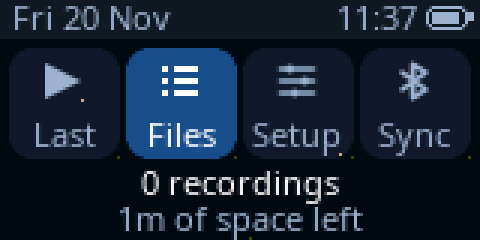
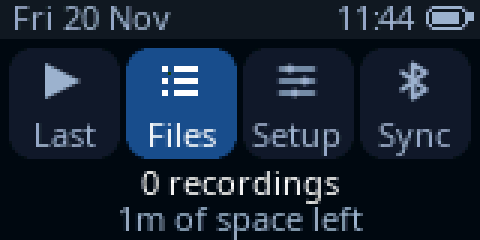
open_fw: add 25KiB off-screen RGB565 framebuffer for zero-flicker atomic UI flushes

Changed region(s): [[0.7812, 0.0, 0.875, 0.1458], [0.5, 0.9917, 0.5312, 1.0]]

diff --git a/open_fw/src/lcd_st7735s.c b/open_fw/src/lcd_st7735s.c
@@ -13,6 +13,42 @@ static uint16_t g_lcd_w     = LCD_WIDTH;
 static uint16_t g_lcd_h     = LCD_HEIGHT;
 static uint16_t g_lcd_x_off = 26u;
 static uint16_t g_lcd_y_off = 0u;
+static uint16_t g_lcd_fb[160u * 80u];
+static int      g_lcd_fb_active = 0;
+
+void lcd_fb_begin(void)
+{
+    g_lcd_fb_active = 1;
+}
+
+void lcd_fb_flush(void)
+{
+    if (!g_lcd_fb_active) {
+        return;
+    }
+    g_lcd_fb_active = 0;
+    lcd_blit_rgb565(0u, 0u, g_lcd_w, g_lcd_h, g_lcd_fb);
+}
+
+static inline void fb_put_px(int16_t x, int16_t y, uint16_t col)
+{
+    if (x >= 0 && y >= 0 && x < (int16_t)g_lcd_w && y < (int16_t)g_lcd_h) {
+        g_lcd_fb[(uint32_t)y * (uint32_t)g_lcd_w + (uint32_t)x] = col;
+    }
+}
+
+static inline void fb_blend_px(int16_t x, int16_t y, uint16_t fg, uint8_t a4)
+{
+    if (a4 == 0u || x < 0 || y < 0 || x >= (int16_t)g_lcd_w || y >= (int16_t)g_lcd_h) {
+        return;
+    }
+    uint32_t idx = (uint32_t)y * (uint32_t)g_lcd_w + (uint32_t)x;
+    if (a4 >= 15u) {
+        g_lcd_fb[idx] = fg;
+    } else {
+        g_lcd_fb[idx] = lcd_blend_rgb565(fg, g_lcd_fb[idx], a4);
+    }
+}
 
 static inline void lcdc_wait_idle(void)
 {
@@ -248,6 +284,16 @@ void lcd_fill_rect(uint16_t x, uint16_t y, uint16_t w, uint16_t h, uint16_t colo
     if (x1 >= g_lcd_w) x1 = (uint16_t)(g_lcd_w - 1u);
     if (y1 >= g_lcd_h) y1 = (uint16_t)(g_lcd_h - 1u);
 
+    if (g_lcd_fb_active) {
+        for (uint16_t py = y; py <= y1; py++) {
+            uint16_t *row = &g_lcd_fb[(uint32_t)py * (uint32_t)g_lcd_w];
+            for (uint16_t px = x; px <= x1; px++) {
+                row[px] = color;
+            }
+        }
+        return;
+    }
+
     lcd_set_window(x, y, x1, y1);
     uint32_t total = (uint32_t)(x1 - x + 1u) * (uint32_t)(y1 - y + 1u);
     uint32_t pair  = pack_be16_pair(color, color);
@@ -263,6 +309,18 @@ void lcd_fill_rect(uint16_t x, uint16_t y, uint16_t w, uint16_t h, uint16_t colo
 void lcd_blit_rgb565(uint16_t x, uint16_t y, uint16_t w, uint16_t h, const uint16_t *pixels)
 {
     if (w == 0u || h == 0u || !pixels) {
+        return;
+    }
+    if (g_lcd_fb_active) {
+        for (uint16_t row = 0u; row < h; row++) {
+            int16_t py = (int16_t)(y + row);
+            if (py >= (int16_t)g_lcd_h) break;
+            for (uint16_t col = 0u; col < w; col++) {
+                int16_t px = (int16_t)(x + col);
+                if (px >= (int16_t)g_lcd_w) break;
+                g_lcd_fb[(uint32_t)py * (uint32_t)g_lcd_w + (uint32_t)px] = pixels[(uint32_t)row * (uint32_t)w + col];
+            }
+        }
         return;
     }
     lcd_set_window(x, y, (uint16_t)(x + w - 1u), (uint16_t)(y + h - 1u));
@@ -614,9 +672,22 @@ static void lcd_draw_glyph_aa(int16_t x, int16_t y, const aa_font_t *font,
     int16_t cx1 = (gx1 >= (int16_t)g_lcd_w) ? (int16_t)(g_lcd_w - 1) : gx1;
     int16_t cy1 = (gy1 >= (int16_t)g_lcd_h) ? (int16_t)(g_lcd_h - 1) : gy1;
 
+    const uint8_t *src = &font->bitmap_data[g->data_off];
+    if (g_lcd_fb_active) {
+        for (int16_t py = cy0; py <= cy1; py++) {
+            uint32_t row_off = (uint32_t)(py - gy0) * (uint32_t)g->w;
+            for (int16_t px = cx0; px <= cx1; px++) {
+                uint32_t idx = row_off + (uint32_t)(px - gx0);
+                uint8_t byte = src[idx >> 1];
+                uint8_t a4   = ((idx & 1u) == 0u) ? (uint8_t)(byte >> 4) : (uint8_t)(byte & 0x0Fu);
+                fb_blend_px(px, py, fg, a4);
+            }
+        }
+        return;
+    }
+
     lcd_set_window((uint16_t)cx0, (uint16_t)cy0, (uint16_t)cx1, (uint16_t)cy1);
 
-    const uint8_t *src = &font->bitmap_data[g->data_off];
     uint32_t have_p0 = 0u;
     uint16_t p0 = 0u;
 
@@ -722,9 +793,28 @@ void lcd_fill_circle_aa(int16_t cx, int16_t cy, int16_t r, uint16_t fg, uint16_t
     if (x1 >= (int16_t)g_lcd_w) x1 = (int16_t)(g_lcd_w - 1);
     if (y1 >= (int16_t)g_lcd_h) y1 = (int16_t)(g_lcd_h - 1);
 
+    int32_t  r2_64   = (int32_t)r * (int32_t)r * 64;
+    if (g_lcd_fb_active) {
+        for (int16_t py = y0; py <= y1; py++) {
+            for (int16_t px = x0; px <= x1; px++) {
+                uint32_t hits = 0u;
+                for (int32_t sy = 0; sy < 4; sy++) {
+                    int32_t dy = ((int32_t)(py - cy) * 8) + (sy * 2) - 3;
+                    for (int32_t sx = 0; sx < 4; sx++) {
+                        int32_t dx = ((int32_t)(px - cx) * 8) + (sx * 2) - 3;
+                        if ((dx * dx + dy * dy) <= r2_64) {
+                            hits++;
+                        }
+                    }
+                }
+                fb_blend_px(px, py, fg, (uint8_t)((hits * 15u + 8u) / 16u));
+            }
+        }
+        return;
+    }
+
     lcd_set_window((uint16_t)x0, (uint16_t)y0, (uint16_t)x1, (uint16_t)y1);
 
-    int32_t  r2_64   = (int32_t)r * (int32_t)r * 64;
     uint32_t have_p0 = 0u;
     uint16_t p0      = 0u;
 
@@ -784,14 +874,39 @@ void lcd_fill_rrect_aa(int16_t x, int16_t y, int16_t w, int16_t h, int16_t r,
     int16_t cx1 = (x1 >= (int16_t)g_lcd_w) ? (int16_t)(g_lcd_w - 1) : x1;
     int16_t cy1 = (y1 >= (int16_t)g_lcd_h) ? (int16_t)(g_lcd_h - 1) : y1;
 
-    /* Fast interior solid fill + 4x4 AA corners */
-    lcd_set_window((uint16_t)cx0, (uint16_t)cy0, (uint16_t)cx1, (uint16_t)cy1);
-
     int32_t  r2_64   = (int32_t)r * (int32_t)r * 64;
     int32_t  lx      = (int32_t)(x0 + r);
     int32_t  rx      = (int32_t)(x1 - r);
     int32_t  ty      = (int32_t)(y0 + r);
     int32_t  by      = (int32_t)(y1 - r);
+    if (g_lcd_fb_active) {
+        for (int16_t py = cy0; py <= cy1; py++) {
+            int32_t c_y = (py < ty) ? ty : ((py > by) ? by : (int32_t)py);
+            for (int16_t px = cx0; px <= cx1; px++) {
+                if ((px >= lx && px <= rx) || (py >= ty && py <= by)) {
+                    fb_put_px(px, py, fg);
+                } else {
+                    int32_t c_x = (px < lx) ? lx : rx;
+                    uint32_t hits = 0u;
+                    for (int32_t sy = 0; sy < 4; sy++) {
+                        int32_t dy = ((int32_t)py - c_y) * 8 + (sy * 2) - 3;
+                        for (int32_t sx = 0; sx < 4; sx++) {
+                            int32_t dx = ((int32_t)px - c_x) * 8 + (sx * 2) - 3;
+                            if ((dx * dx + dy * dy) <= r2_64) {
+                                hits++;
+                            }
+                        }
+                    }
+                    fb_blend_px(px, py, fg, (uint8_t)((hits * 15u + 8u) / 16u));
+                }
+            }
+        }
+        return;
+    }
+
+    /* Fast interior solid fill + 4x4 AA corners */
+    lcd_set_window((uint16_t)cx0, (uint16_t)cy0, (uint16_t)cx1, (uint16_t)cy1);
+
     uint32_t have_p0 = 0u;
     uint16_t p0      = 0u;
 
@@ -872,6 +987,27 @@ void lcd_fill_tri_aa(int16_t x0, int16_t y0, int16_t x1, int16_t y1,
         int32_t ty = by; by = cy; cy = ty;
     }
 
+    if (g_lcd_fb_active) {
+        for (int16_t py = min_y; py <= max_y; py++) {
+            for (int16_t px = min_x; px <= max_x; px++) {
+                uint32_t hits = 0u;
+                for (int32_t sy = 0; sy < 4; sy++) {
+                    int32_t qy = (int32_t)py * 8 + sy * 2 + 1;
+                    for (int32_t sx = 0; sx < 4; sx++) {
+                        int32_t qx = (int32_t)px * 8 + sx * 2 + 1;
+                        if (tri_edge(ax, ay, bx, by, qx, qy) >= 0 &&
+                            tri_edge(bx, by, cx, cy, qx, qy) >= 0 &&
+                            tri_edge(cx, cy, ax, ay, qx, qy) >= 0) {
+                            hits++;
+                        }
+                    }
+                }
+                fb_blend_px(px, py, fg, (uint8_t)((hits * 15u + 8u) / 16u));
+            }
+        }
+        return;
+    }
+
     lcd_set_window((uint16_t)min_x, (uint16_t)min_y, (uint16_t)max_x, (uint16_t)max_y);
     uint32_t have_p0 = 0u;
     uint16_t p0      = 0u;
@@ -936,6 +1072,44 @@ void lcd_draw_line_aa(int16_t x0, int16_t y0, int16_t x1, int16_t y1,
     int32_t vlen2 = vx * vx + vy * vy;
     int32_t rad = (int32_t)width_px * 4; /* half-width in 1/8-pixel units */
     int32_t rad2 = rad * rad;
+
+    if (g_lcd_fb_active) {
+        for (int16_t py = min_y; py <= max_y; py++) {
+            for (int16_t px = min_x; px <= max_x; px++) {
+                uint32_t hits = 0u;
+                for (int32_t sy = 0; sy < 4; sy++) {
+                    int32_t qy = (int32_t)py * 8 + sy * 2 + 1;
+                    for (int32_t sx = 0; sx < 4; sx++) {
+                        int32_t qx = (int32_t)px * 8 + sx * 2 + 1;
+                        int32_t wx = qx - ax;
+                        int32_t wy = qy - ay;
+                        int32_t dx, dy;
+                        if (vlen2 == 0) {
+                            dx = wx; dy = wy;
+                        } else {
+                            int32_t dot = wx * vx + wy * vy;
+                            if (dot <= 0) {
+                                dx = wx; dy = wy;
+                            } else if (dot >= vlen2) {
+                                dx = qx - bx; dy = qy - by;
+                            } else {
+                                int64_t cross = (int64_t)wx * (int64_t)vy - (int64_t)wy * (int64_t)vx;
+                                if (cross * cross <= (int64_t)rad2 * (int64_t)vlen2) {
+                                    hits++;
+                                }
+                                continue;
+                            }
+                        }
+                        if (dx * dx + dy * dy <= rad2) {
+                            hits++;
+                        }
+                    }
+                }
+                fb_blend_px(px, py, fg, (uint8_t)((hits * 15u + 8u) / 16u));
+            }
+        }
+        return;
+    }
 
     lcd_set_window((uint16_t)min_x, (uint16_t)min_y, (uint16_t)max_x, (uint16_t)max_y);
     uint32_t have_p0 = 0u;

diff --git a/open_fw/src/ui_screens.c b/open_fw/src/ui_screens.c
@@ -995,6 +995,7 @@ static void render_power(const ui_model_t *m)
 void ui_render_screen(ui_screen_id_t scr, const ui_model_t *m)
 {
     if (!m) return;
+    lcd_fb_begin();
     switch (scr) {
     case UI_SCR_HOME:     render_home(m);      break;
     case UI_SCR_REC:      render_recording(m); break;
@@ -1011,6 +1012,7 @@ void ui_render_screen(ui_screen_id_t scr, const ui_model_t *m)
     case UI_SCR_OFF:
     default:
         lcd_fill_rect(0u, 0u, UI_W, UI_H, UI_COL_BLACK);
+        lcd_fb_flush();
         return;
     }
 
@@ -1018,4 +1020,5 @@ void ui_render_screen(ui_screen_id_t scr, const ui_model_t *m)
         uint16_t pcol = m->toast_col ? m->toast_col : UI_COL_AMBER;
         ui_draw_toast(m->toast_msg, pcol, UI_COL_BLACK, UI_COL_BG);
     }
+    lcd_fb_flush();
 }

diff --git a/open_fw/include/openfw.h b/open_fw/include/openfw.h
@@ -131,6 +131,8 @@ static inline uint16_t rgb565(uint8_t r, uint8_t g, uint8_t b)
 void     lcd_backlight_set(uint8_t percent);
 void     lcd_init(void);
 void     lcd_set_rotation(int landscape);
+void     lcd_fb_begin(void);
+void     lcd_fb_flush(void);
 uint16_t lcd_get_width(void);
 uint16_t lcd_get_height(void);
 void     lcd_set_window(uint16_t x0, uint16_t y0, uint16_t x1, uint16_t y1);
